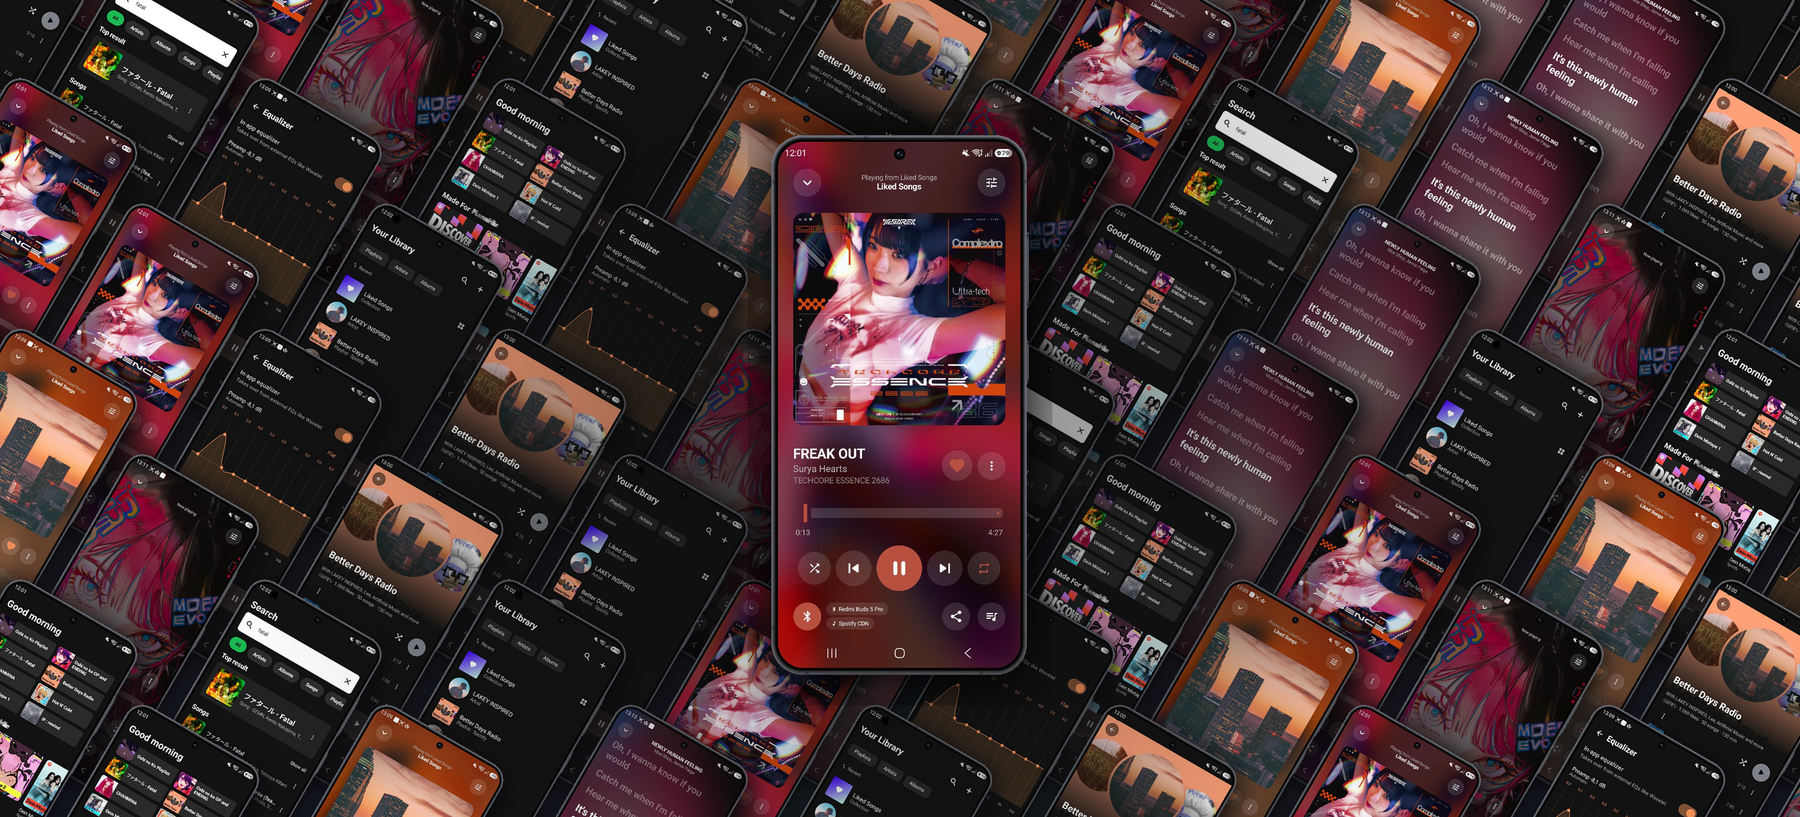
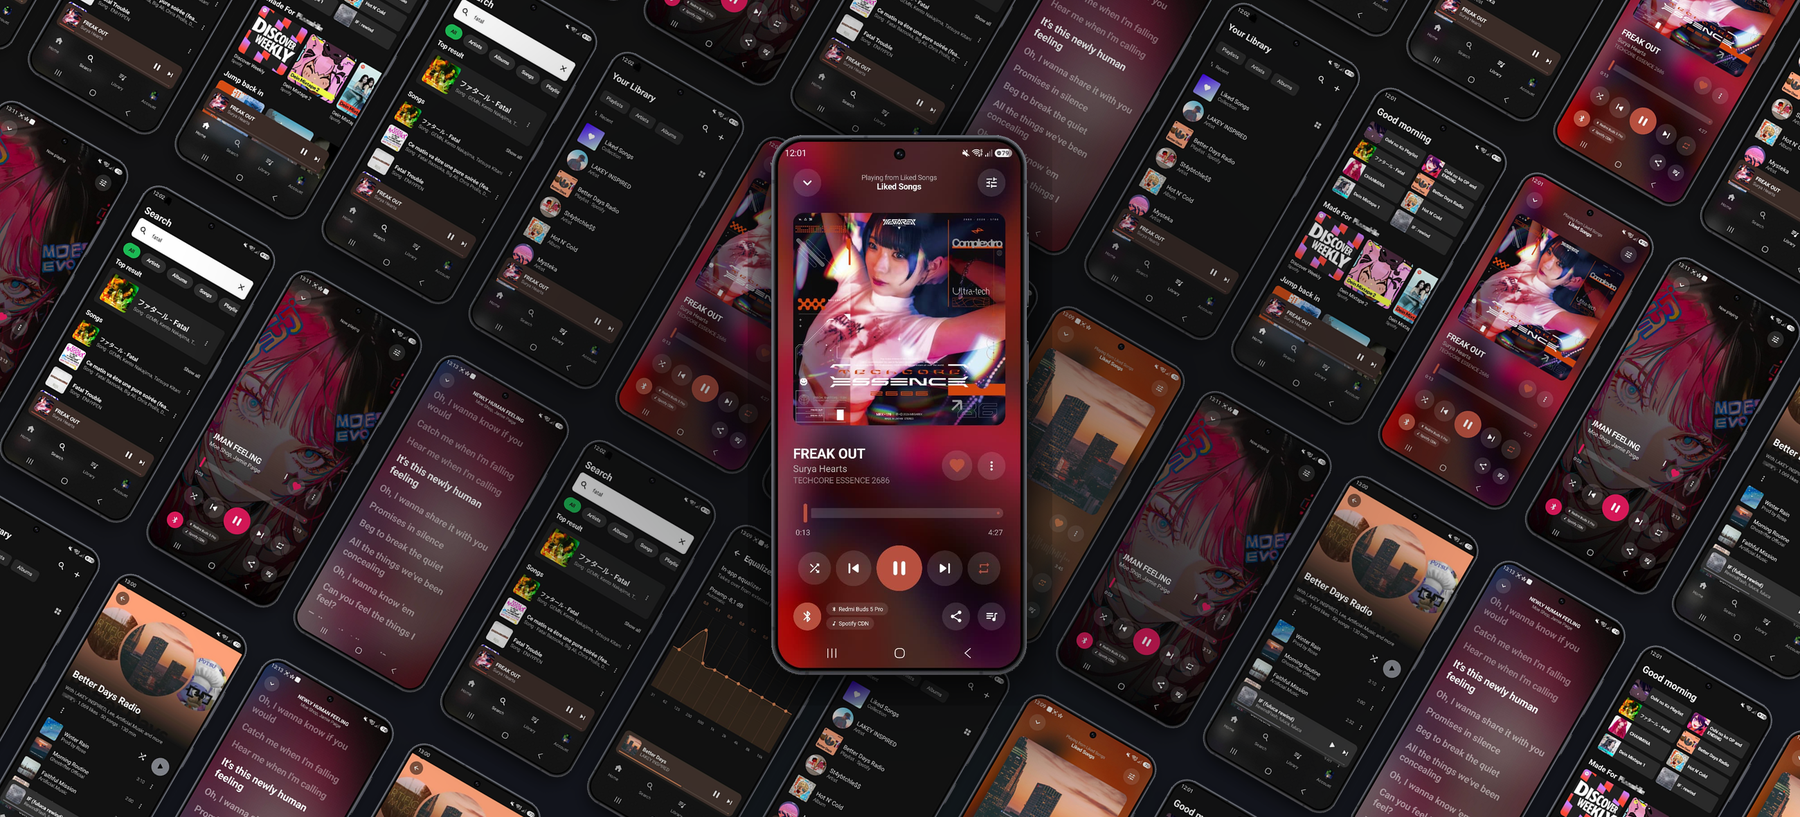
fix: rotate the whole field so the phones stay aligned in both axes

diff --git a/scripts/generate_mockup.py b/scripts/generate_mockup.py
@@ -37,8 +37,8 @@ OUTPUT_W = 1800       # composed large, delivered smaller: sharper edges, a thir
 HERO_H = 780          # height of the upright hero
 TILE_H = 460          # height of each tilted screen in the field
 TILE_ANGLE = -30      # degrees; one angle for the whole field keeps it isometric
-COL_STEP = 0.78       # horizontal spacing, as a fraction of a tile's width
-ROW_STEP = 0.33       # vertical spacing, as a fraction of a tile's height
+COL_STEP = 1.12       # column pitch, as a multiple of a phone's width  (>1 leaves a gutter)
+ROW_STEP = 1.10       # row pitch, as a multiple of a phone's height
 CORNER_RADIUS = 18
 DEFAULT_SEED = 11
 
@@ -94,25 +94,36 @@ def load_screen(name, height):
 
 
 def build_field(seed):
-    """The tilted lattice that fills the canvas and bleeds off every edge."""
-    rnd = random.Random(seed)
-    tiles = [add_shadow(load_screen(name, TILE_H).rotate(TILE_ANGLE, resample=Image.BICUBIC, expand=True))
-             for name in SCREENSHOTS]
-    tw, th = tiles[0].size
-    dx, dy = int(tw * COL_STEP), int(th * ROW_STEP)
+    """The tilted field that fills the canvas and bleeds off every edge.
 
-    layer = Image.new('RGBA', (CANVAS_W, CANVAS_H), (0, 0, 0, 0))
+    Built upright on a plain grid and rotated as a whole, NOT by rotating each phone onto a tilted
+    lattice. Rotating the finished grid keeps both axes aligned, so the phones read as continuous
+    diagonal lines; tilting them individually leaves the columns visibly out of step.
+    """
+    rnd = random.Random(seed)
+    tiles = [add_shadow(load_screen(name, TILE_H)) for name in SCREENSHOTS]
+    pw, ph = load_screen(SCREENSHOTS[0], TILE_H).size
+    pad = (tiles[0].size[0] - pw) // 2          # shadow padding, so phones land on the grid itself
+    step_x, step_y = int(pw * COL_STEP), int(ph * ROW_STEP)
+
+    # Rotating shrinks the usable area to the inscribed rectangle, so build past the diagonal.
+    span = int((CANVAS_W ** 2 + CANVAS_H ** 2) ** 0.5) + 2 * max(step_x, step_y)
+    cols, rows = span // step_x + 2, span // step_y + 2
+
+    grid = Image.new('RGBA', (cols * step_x, rows * step_y), (0, 0, 0, 0))
     bag = []
-    for r in range(-2, CANVAS_H // dy + 3):
-        # Alternate rows shift half a column, which is what turns a grid into a weave.
-        x = -tw // 2 + (dx // 2 if r % 2 else 0)
-        while x < CANVAS_W + tw // 2:
+    for r in range(rows):
+        for c in range(cols):
             if not bag:
                 bag = tiles[:]
                 rnd.shuffle(bag)
-            layer.paste(bag[-1], (x, r * dy - th // 2), bag.pop())
-            x += dx
-    return Image.alpha_composite(create_gradient_background(CANVAS_W, CANVAS_H), layer)
+            grid.paste(bag[-1], (c * step_x - pad, r * step_y - pad), bag.pop())
+
+    grid = grid.rotate(TILE_ANGLE, resample=Image.BICUBIC, expand=True)
+    left = (grid.size[0] - CANVAS_W) // 2
+    top = (grid.size[1] - CANVAS_H) // 2
+    field = grid.crop((left, top, left + CANVAS_W, top + CANVAS_H))
+    return Image.alpha_composite(create_gradient_background(CANVAS_W, CANVAS_H), field)
 
 
 def dim_towards_centre(canvas):
